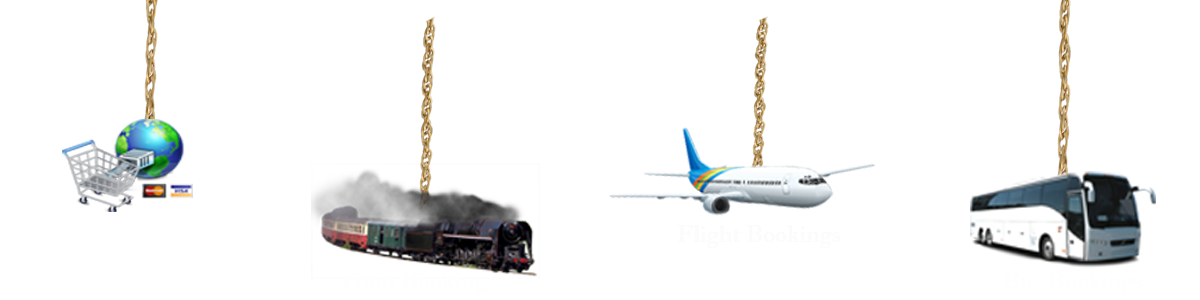
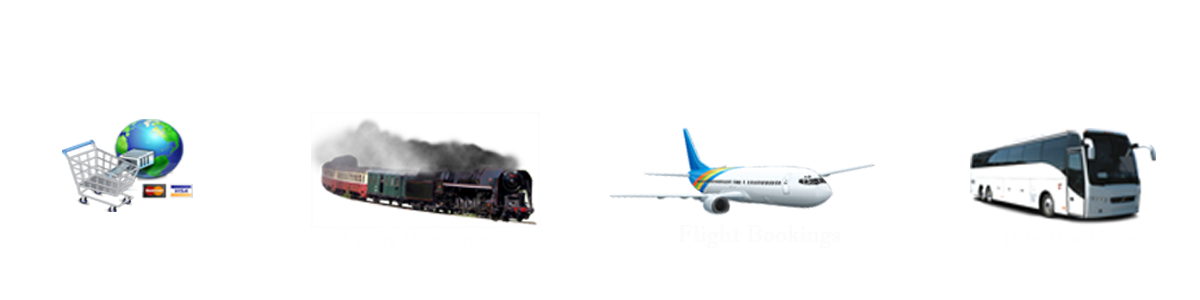
update

diff --git a/index.html b/index.html
@@ -46,10 +46,10 @@
     <header class="header" id="header">
         <!--header-start-->
         <div class="container">
-            <div class="col-md-12  wow fadeInUp delay-03s animated hidden-xs">
+            <div class="col-md-12  wow fadeInUp delay-03s animated">
                 <img class="img-responsive" src="img/firstzen-welcome.png" alt="" />
             </div>
-            <div class="col-md-12  wow fadeInUp delay-06s animated hidden-xs">
+            <div class="col-md-12  wow fadeInUp delay-06s animated">
                 <img class="img-responsive image-banner" src="img/firstzen-welcome-bannar.png" alt="">
             </div>
             <div class="col-md-12">
